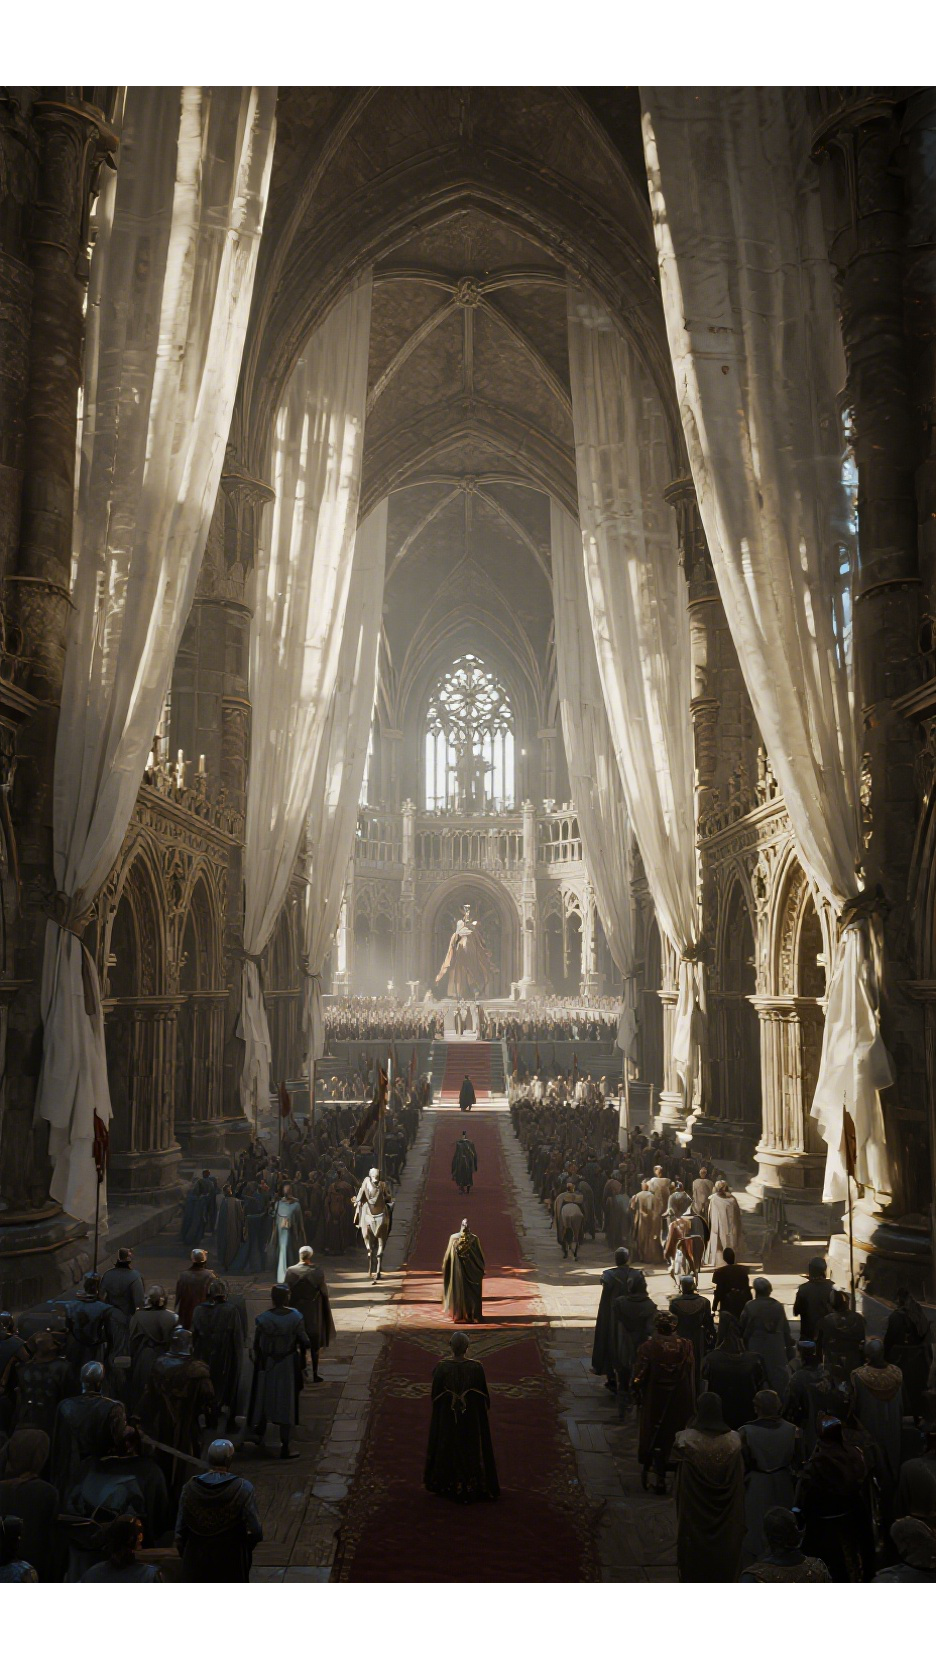
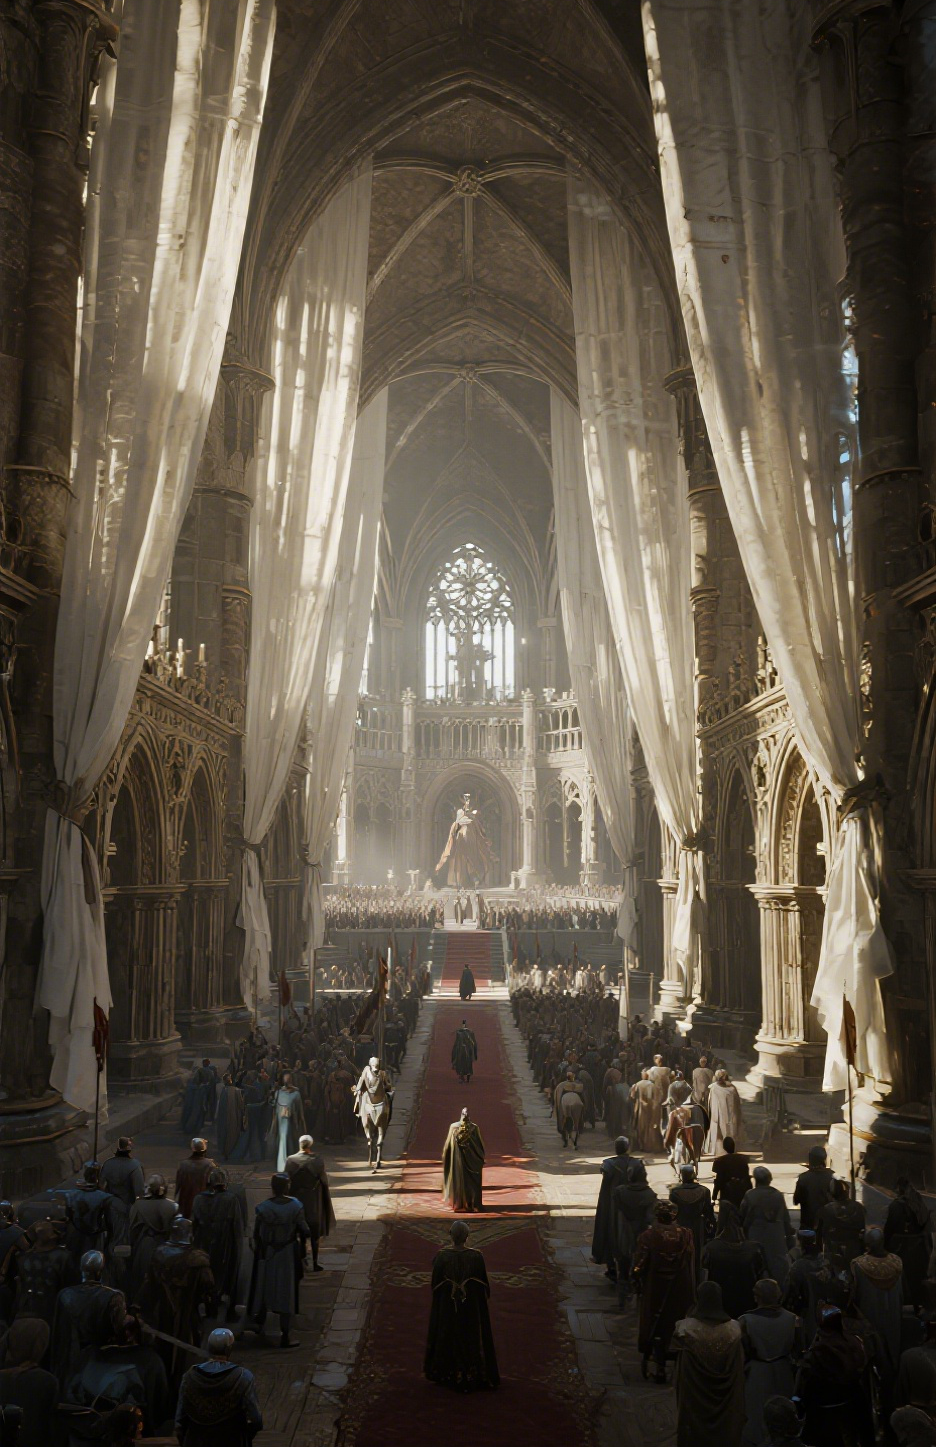
fix(life): 修复 OTHER 幕手机端背景上下白边
- 根因：other-scene-bg.png 原图顶部86px/底部81px是近乎纯黑的暗角区域，叠加84%白色蒙版后接近纯白；
  桌面端视口宽，cover按宽度撑满会裁掉这段；手机端视口窄高，cover按高度撑满会完整露出，
  因此只有手机端出现白边。直接裁掉问题区域（936x1664→936x1447），原图备份保留
- 顺带修复：全局补上 viewport-fit=cover + theme-color，避免刘海屏/Home Indicator安全区
  显示默认系统白色UI；配套给固定在边缘的悬浮控件（AI分身按钮/首访引导气泡/UP·NEXT/顶部导航）
  加 env(safe-area-inset-*) 内边距，避免被物理遮挡（非刘海设备该值为0，不受影响）

diff --git a/web/src/app/globals.css b/web/src/app/globals.css
@@ -229,7 +229,8 @@ body {
   display: flex;
   align-items: center;
   justify-content: space-between;
-  padding: 26px clamp(24px, 5vw, 64px) 0;
+  /* + safe-area-inset-top：viewport-fit=cover 后避免刘海/挖孔摄像头遮挡导航文字 */
+  padding: calc(26px + env(safe-area-inset-top, 0px)) clamp(24px, 5vw, 64px) 0;
 }
 .stage .navlinks {
   display: flex;
@@ -2970,7 +2971,9 @@ body[data-section="closing"] .stage .nav-loc-dot {
 .ai-avatar-petbtn {
   position: fixed;
   right: clamp(12px, 3vw, 24px);
-  bottom: clamp(12px, 3vw, 22px);
+  /* + safe-area-inset-bottom：viewport-fit=cover 后内容延伸进 Home Indicator 区域，
+     这里补回内边距避免按钮被遮挡（非刘海设备 env() = 0，不受影响） */
+  bottom: calc(clamp(12px, 3vw, 22px) + env(safe-area-inset-bottom, 0px));
   z-index: 100;
   border: none;
   background: none;
@@ -2983,7 +2986,8 @@ body[data-section="closing"] .stage .nav-loc-dot {
 .ai-avatar-hint {
   position: fixed;
   right: clamp(12px, 3vw, 24px);
-  bottom: clamp(98px, 16vw, 118px);
+  /* + safe-area-inset-bottom：随 .ai-avatar-petbtn 一起下移，保持锚定关系 */
+  bottom: calc(clamp(98px, 16vw, 118px) + env(safe-area-inset-bottom, 0px));
   z-index: 99;
   white-space: nowrap;
   padding: 11px 14px;
@@ -4947,7 +4951,8 @@ body:has(.case) {
 .scene-jump {
   position: fixed;
   left: clamp(14px, 2vw, 28px);
-  bottom: clamp(18px, 4vh, 38px);
+  /* + safe-area-inset-bottom，理由同 .ai-avatar-petbtn */
+  bottom: calc(clamp(18px, 4vh, 38px) + env(safe-area-inset-bottom, 0px));
   z-index: 60;
   display: flex;
   flex-direction: column;
@@ -5051,7 +5056,7 @@ html {
   }
   .scene-jump {
     left: 10px;
-    bottom: 14px;
+    bottom: calc(14px + env(safe-area-inset-bottom, 0px));
   }
   .scene-jump-btn {
     min-width: 0;

diff --git a/web/src/app/layout.tsx b/web/src/app/layout.tsx
@@ -1,4 +1,4 @@
-import type { Metadata } from "next";
+import type { Metadata, Viewport } from "next";
 import { Permanent_Marker, Bebas_Neue } from "next/font/google";
 import localFont from "next/font/local";
 import AiAvatar from "@/components/ai-avatar/ai-avatar";
@@ -52,6 +52,18 @@ export const metadata: Metadata = {
   title: "陈彦均 · AI 产品经理求职",
   description:
     "城乡规划师转型 AI 产品经理。深度项目实证 + AI 数字分身，递给你的数字名片。",
+};
+
+// viewportFit: "cover" 让页面内容/背景延伸到刘海与 Home Indicator 安全区之下，
+// 否则移动端浏览器会在那块区域保留默认系统白色 UI——
+// 表现为"OTHER 幕背景图上下两端始终有白边"（与滚动位置无关，因为那其实不是页面内容）。
+// 配套：固定在屏幕上下边缘的悬浮控件（AI 分身按钮 / UP·NEXT）已加 safe-area-inset 内边距，
+// 避免被刘海/Home Indicator 物理遮挡。
+export const viewport: Viewport = {
+  width: "device-width",
+  initialScale: 1,
+  viewportFit: "cover",
+  themeColor: "#fbfbfd",
 };
 
 export default function RootLayout({
